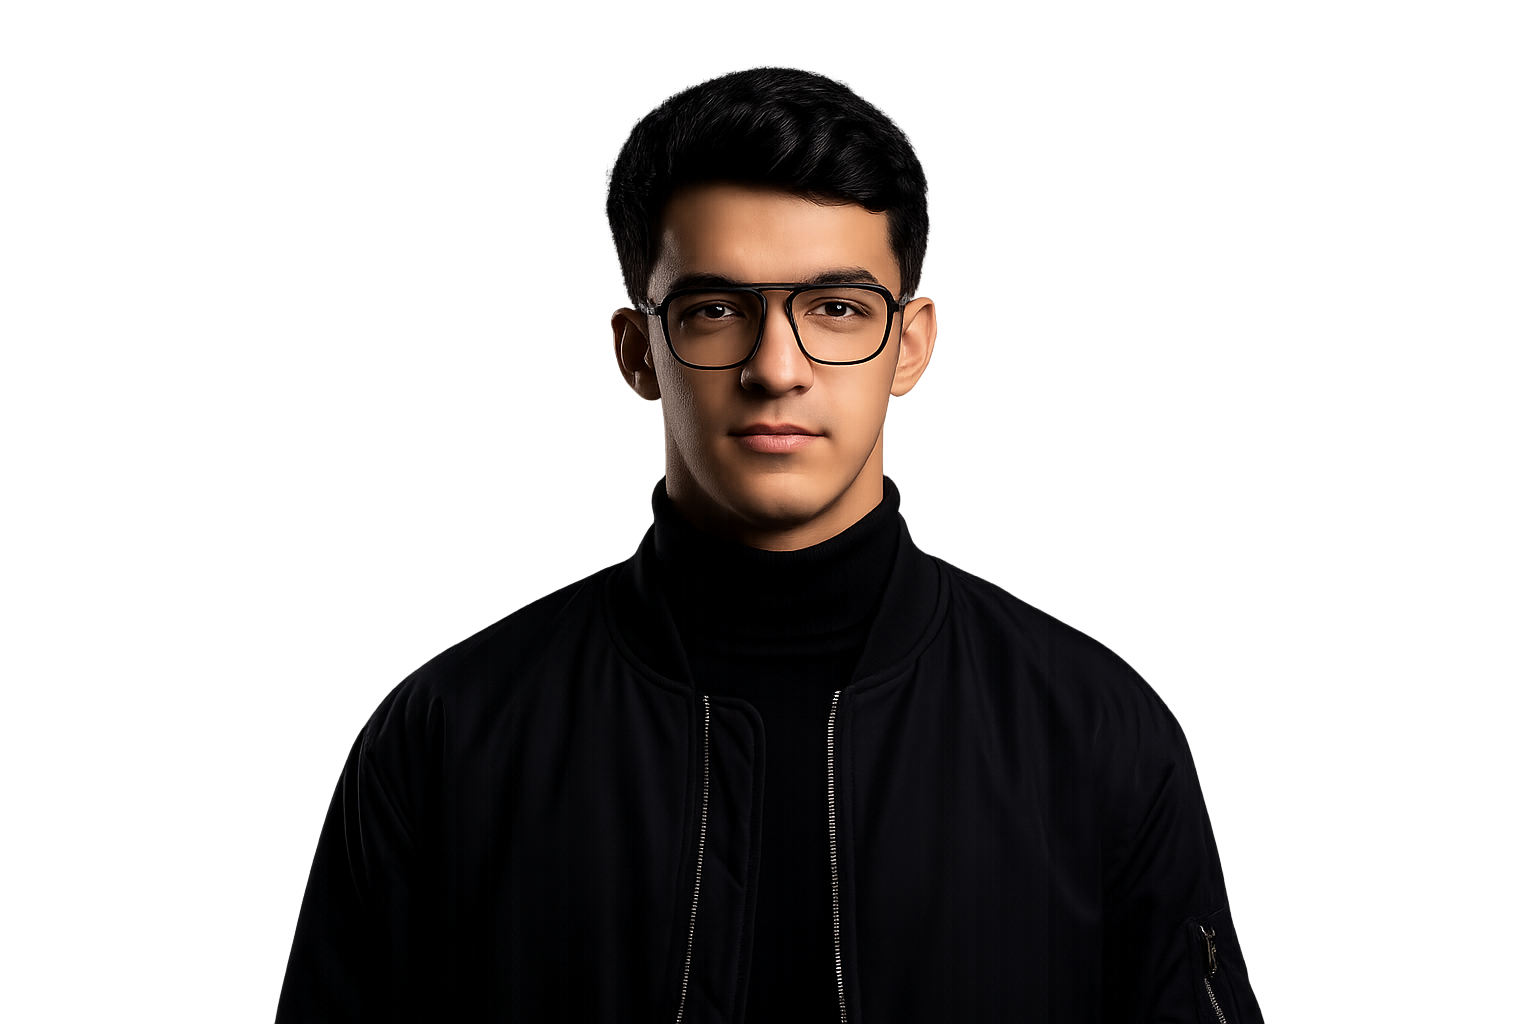
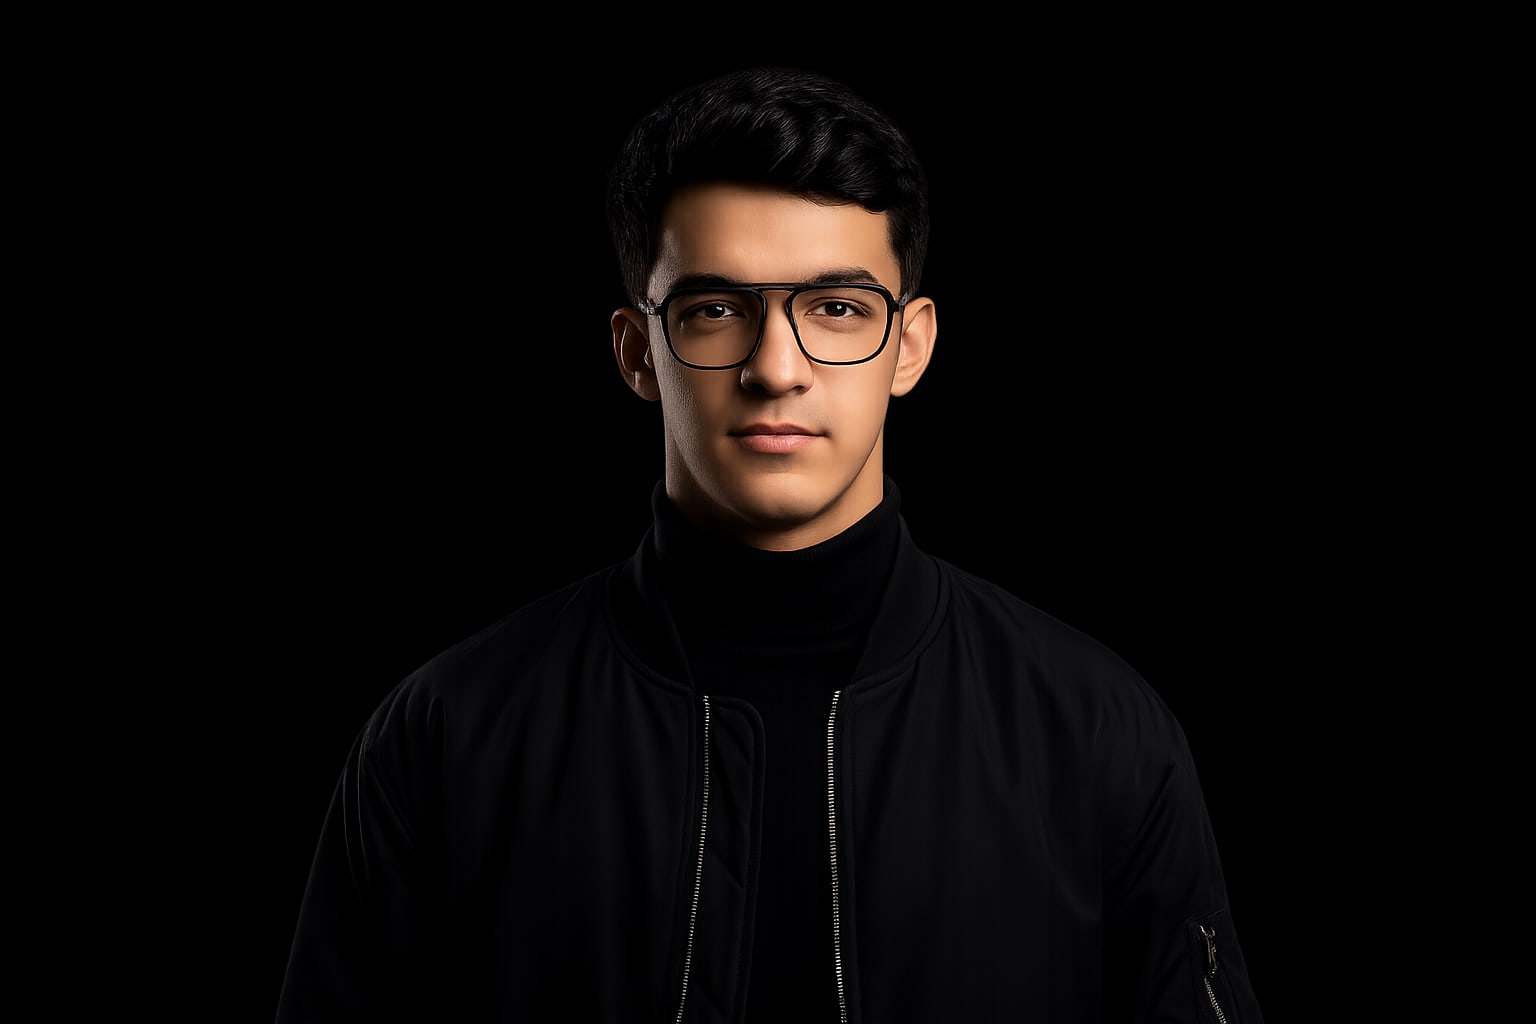
Perf: faster load + smoother runtime; bot webhook self-setup
- Bot: GET /api/bot?setup self-registers the Telegram webhook using the
  server-side BOT_TOKEN (open once after deploy, no token in the URL)
- Compress hero portrait 2.2 MB -> 46 KB (1536px, q86) — big LCP win
- Shorten preloader 1.3s -> 0.7s and hero intro delays for snappier first paint
- Backdrop starfield: cap DPR at 1.5, fewer stars, pause rAF when tab hidden
- Cursor: delegated mouseover listener instead of per-element listeners +
  MutationObserver (removes a scroll-jank source)

diff --git a/components/Cursor.tsx b/components/Cursor.tsx
@@ -3,10 +3,14 @@
 import { useEffect, useRef } from 'react';
 
 /*
- * Two-layer cursor: a fixed dot + a lagging ring. On interactive elements the
- * ring grows. If an element carries data-cursor="View" the ring fills white and
- * shows that label ("View" / "Open" / "Explore" …) — a small premium detail.
+ * Two-layer cursor: a fixed dot + a lagging ring. Hover state uses a single
+ * delegated `mouseover` listener (cheap `closest()` check) instead of attaching
+ * listeners to every element + a MutationObserver — far less work per frame and
+ * it automatically covers dynamically-added elements. On elements with
+ * data-cursor the ring fills white and shows that label.
  */
+const SEL = 'a, button, [data-hover], [data-cursor], input, textarea, select';
+
 export default function Cursor() {
   const ringRef = useRef<HTMLDivElement>(null);
   const dotRef = useRef<HTMLDivElement>(null);
@@ -15,75 +19,41 @@ export default function Cursor() {
   useEffect(() => {
     if (window.matchMedia('(max-width: 768px)').matches) return;
 
-    let mx = window.innerWidth / 2;
-    let my = window.innerHeight / 2;
-    let rx = mx, ry = my;
+    let mx = window.innerWidth / 2, my = window.innerHeight / 2, rx = mx, ry = my, raf = 0;
 
     const move = (e: MouseEvent) => {
       mx = e.clientX; my = e.clientY;
-      if (dotRef.current)
-        dotRef.current.style.transform = `translate3d(${mx}px, ${my}px, 0) translate(-50%,-50%)`;
+      if (dotRef.current) dotRef.current.style.transform = `translate3d(${mx}px, ${my}px, 0) translate(-50%,-50%)`;
     };
     const tick = () => {
       rx += (mx - rx) * 0.18;
       ry += (my - ry) * 0.18;
-      if (ringRef.current)
-        ringRef.current.style.transform = `translate3d(${rx}px, ${ry}px, 0) translate(-50%,-50%)`;
+      if (ringRef.current) ringRef.current.style.transform = `translate3d(${rx}px, ${ry}px, 0) translate(-50%,-50%)`;
       raf = requestAnimationFrame(tick);
     };
-    let raf = requestAnimationFrame(tick);
+    raf = requestAnimationFrame(tick);
 
-    const setLabel = (text: string | null) => {
-      const ring = ringRef.current;
-      const lbl = labelRef.current;
+    const onOver = (e: MouseEvent) => {
+      const ring = ringRef.current, lbl = labelRef.current;
       if (!ring || !lbl) return;
-      if (text) {
-        lbl.textContent = text;
-        ring.classList.add('has-label');
+      const el = (e.target as HTMLElement)?.closest?.(SEL) as HTMLElement | null;
+      if (el) {
+        ring.classList.add('is-hover');
+        const label = el.getAttribute('data-cursor');
+        if (label) { lbl.textContent = label; ring.classList.add('has-label'); }
+        else ring.classList.remove('has-label');
       } else {
+        ring.classList.remove('is-hover');
         ring.classList.remove('has-label');
       }
     };
 
-    const hoverIn = (e: Event) => {
-      const el = (e.target as HTMLElement).closest('[data-cursor],a,button,[data-hover],input,textarea,select');
-      ringRef.current?.classList.add('is-hover');
-      const label = el?.getAttribute('data-cursor');
-      setLabel(label || null);
-    };
-    const hoverOut = () => {
-      ringRef.current?.classList.remove('is-hover');
-      setLabel(null);
-    };
-
-    const attach = () => {
-      const els = document.querySelectorAll('a, button, [data-hover], [data-cursor], input, textarea, select');
-      els.forEach((el) => {
-        el.addEventListener('mouseenter', hoverIn);
-        el.addEventListener('mouseleave', hoverOut);
-      });
-      return els;
-    };
-    let els = attach();
-
-    const observer = new MutationObserver(() => {
-      els.forEach((el) => {
-        el.removeEventListener('mouseenter', hoverIn);
-        el.removeEventListener('mouseleave', hoverOut);
-      });
-      els = attach();
-    });
-    observer.observe(document.body, { childList: true, subtree: true });
-
-    window.addEventListener('mousemove', move);
+    window.addEventListener('mousemove', move, { passive: true });
+    document.addEventListener('mouseover', onOver, { passive: true });
     return () => {
       cancelAnimationFrame(raf);
       window.removeEventListener('mousemove', move);
-      observer.disconnect();
-      els.forEach((el) => {
-        el.removeEventListener('mouseenter', hoverIn);
-        el.removeEventListener('mouseleave', hoverOut);
-      });
+      document.removeEventListener('mouseover', onOver);
     };
   }, []);
 

diff --git a/components/Backdrop.tsx b/components/Backdrop.tsx
@@ -24,7 +24,7 @@ export default function Backdrop() {
 
     const reduce = window.matchMedia('(prefers-reduced-motion: reduce)').matches;
     let stars: Star[] = [];
-    let w = 0, h = 0, dpr = Math.min(window.devicePixelRatio || 1, 2);
+    let w = 0, h = 0, dpr = Math.min(window.devicePixelRatio || 1, 1.5);
     let mx = 0, my = 0, cx = 0, cy = 0, raf = 0, t = 0;
 
     const build = () => {
@@ -36,7 +36,7 @@ export default function Backdrop() {
       canvas.style.height = h + 'px';
       ctx.setTransform(dpr, 0, 0, dpr, 0, 0);
       // density scales with area; kept modest so it reads as "a few real stars"
-      const count = Math.min(180, Math.round((w * h) / 12000));
+      const count = Math.min(110, Math.round((w * h) / 18000));
       stars = Array.from({ length: count }, () => {
         const bright = Math.random() < 0.12; // a few brighter stars
         return {
@@ -86,15 +86,23 @@ export default function Backdrop() {
       if (glowRef.current) glowRef.current.style.transform = `translate3d(${mx * 24}px, ${my * 24}px, 0)`;
     };
 
+    // Pause the render loop while the tab is hidden (saves CPU/battery).
+    const onVis = () => {
+      if (document.hidden) { cancelAnimationFrame(raf); raf = 0; }
+      else if (!reduce && !raf) { t += 0.016; raf = requestAnimationFrame(tick); }
+    };
+
     build();
     if (reduce) draw();
     else raf = requestAnimationFrame(tick);
     window.addEventListener('mousemove', onMove);
     window.addEventListener('resize', build);
+    document.addEventListener('visibilitychange', onVis);
     return () => {
       cancelAnimationFrame(raf);
       window.removeEventListener('mousemove', onMove);
       window.removeEventListener('resize', build);
+      document.removeEventListener('visibilitychange', onVis);
     };
   }, []);
 

diff --git a/app/api/bot/route.ts b/app/api/bot/route.ts
@@ -49,6 +49,24 @@ export async function POST(req: Request) {
   return handle(req);
 }
 
-export function GET() {
+/*
+ * GET /api/bot            → healthcheck ("Bot is running")
+ * GET /api/bot?setup      → registers the Telegram webhook to this same domain
+ *   using the BOT_TOKEN already in the server env (no token in the URL). Open it
+ *   once in the browser after deploy to finish setup.
+ */
+export async function GET(req: Request) {
+  const url = new URL(req.url);
+  if (url.searchParams.has('setup')) {
+    if (!bot) return new Response('BOT_TOKEN is not configured', { status: 500 });
+    const host = req.headers.get('x-forwarded-host') || req.headers.get('host');
+    const hookUrl = `https://${host}/api/bot`;
+    try {
+      await bot.api.setWebhook(hookUrl, { drop_pending_updates: true });
+      return Response.json({ ok: true, webhook: hookUrl });
+    } catch (e) {
+      return Response.json({ ok: false, error: String((e as Error)?.message || e) }, { status: 500 });
+    }
+  }
   return new Response('Bot is running', { status: 200 });
 }

diff --git a/components/Hero.tsx b/components/Hero.tsx
@@ -42,9 +42,9 @@ export default function Hero() {
   useEffect(() => {
     const ctx = gsap.context(() => {
       gsap.fromTo(outerRef.current, { opacity: 0, scale: 1.08, filter: 'blur(14px)' },
-        { opacity: 1, scale: 1, filter: 'blur(0px)', duration: 1.5, ease: 'power3.out', delay: 1.1 });
+        { opacity: 1, scale: 1, filter: 'blur(0px)', duration: 1.2, ease: 'power3.out', delay: 0.5 });
       gsap.fromTo('[data-hero-fx]', { y: 24, opacity: 0 },
-        { y: 0, opacity: 1, duration: 1, ease: 'power3.out', stagger: 0.12, delay: 1.5 });
+        { y: 0, opacity: 1, duration: 0.9, ease: 'power3.out', stagger: 0.1, delay: 0.85 });
     }, sectionRef);
     return () => ctx.revert();
   }, []);
@@ -90,7 +90,7 @@ export default function Hero() {
         <SplitText
           as="h1"
           trigger="load"
-          delay={1.35}
+          delay={0.65}
           className="display-tight text-white text-[10vw] sm:text-6xl md:text-7xl lg:text-[5rem] leading-[0.92] [text-shadow:0_6px_50px_rgba(0,0,0,0.6)]"
         >
           ALISHER GAFUROV

diff --git a/components/Loader.tsx b/components/Loader.tsx
@@ -8,8 +8,8 @@ import { useEffect, useState } from 'react';
  * until it finishes; a fail-safe guarantees it always lifts.
  */
 
-const TOTAL_MS = 1300;
-const FADE_MS = 620;
+const TOTAL_MS = 700;
+const FADE_MS = 420;
 const NAME = 'ALISHER GAFUROV';
 
 export default function Loader() {
